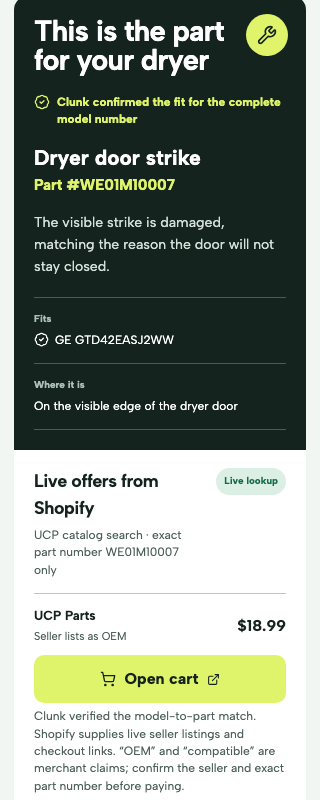
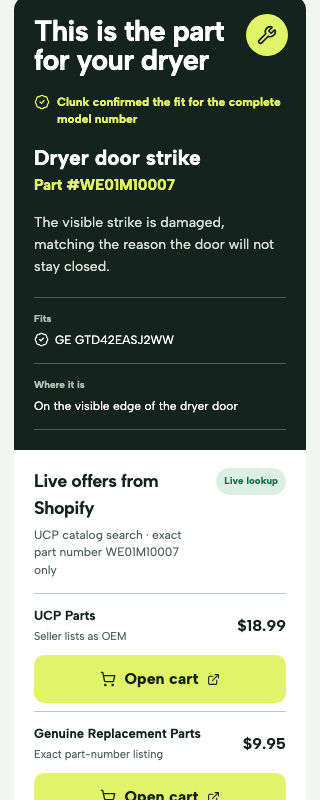
fix: separate result offers from safety guidance

Changed region(s): [[0.0938, 0.875, 0.9062, 1.0]]

diff --git a/tests/e2e/clunk.spec.ts b/tests/e2e/clunk.spec.ts
@@ -57,6 +57,20 @@ test.beforeEach(async ({ page }) => {
                   },
                 ],
               },
+              {
+                id: `exact-secondary-${sku}`,
+                title: `Exact replacement appliance part ${sku}`,
+                variants: [
+                  {
+                    id: `exact-secondary-variant-${sku}`,
+                    sku,
+                    price: { amount: 995, currency: "USD" },
+                    checkout_url: `https://second-merchant.example/cart/${sku}`,
+                    availability: { available: true },
+                    seller: { name: "Genuine Replacement Parts" },
+                  },
+                ],
+              },
             ],
           },
         },
@@ -218,6 +232,32 @@ test("one secondary action reaches an exact part and exact-SKU seller handoff", 
   ).toHaveAttribute("href", "https://merchant.example/cart/WE01M10007");
   await expect(page.getByText("Wrong Seller")).toHaveCount(0);
   await expect(page.getByText("Completed example")).toBeVisible();
+});
+
+test("keeps stacked seller offers clear of source and safety guidance", async ({ page }) => {
+  await page.setViewportSize({ width: 1063, height: 800 });
+  await page.getByRole("button", { name: "See completed dryer example" }).click();
+
+  const offers = page.getByRole("region", { name: "Live offers from Shopify" });
+  const source = page.getByRole("link", { name: /Read the GE Appliances instructions/ });
+  const disclaimer = page.getByText(/Confirm the full model number again on the seller page/);
+  await expect(page.getByText("Genuine Replacement Parts")).toBeVisible();
+
+  const [offersBox, sourceBox, disclaimerBox] = await Promise.all([
+    offers.boundingBox(),
+    source.boundingBox(),
+    disclaimer.boundingBox(),
+  ]);
+  expect(offersBox).not.toBeNull();
+  expect(sourceBox).not.toBeNull();
+  expect(disclaimerBox).not.toBeNull();
+  expect(sourceBox!.y).toBeGreaterThanOrEqual(offersBox!.y + offersBox!.height + 16);
+  expect(disclaimerBox!.y).toBeGreaterThanOrEqual(sourceBox!.y + sourceBox!.height + 16);
+  expect(
+    await page.evaluate(
+      () => document.documentElement.scrollWidth - document.documentElement.clientWidth,
+    ),
+  ).toBeLessThanOrEqual(1);
 });
 
 test("every category completed example ends at its verified purchase handoff", async ({ page }) => {

diff --git a/src/styles.css b/src/styles.css
@@ -1858,7 +1858,7 @@ summary:focus-visible,
 
 .purchase-handoff,
 .live-offers {
-  margin: 22px -24px -24px;
+  margin: 22px -24px 0;
   padding: 20px 24px 24px;
   background: var(--white);
   color: var(--ink);
@@ -2803,7 +2803,7 @@ footer a {
 
   .purchase-handoff,
   .live-offers {
-    margin: 20px -20px -20px;
+    margin: 20px -20px 0;
     padding: 18px 20px 20px;
   }
 
